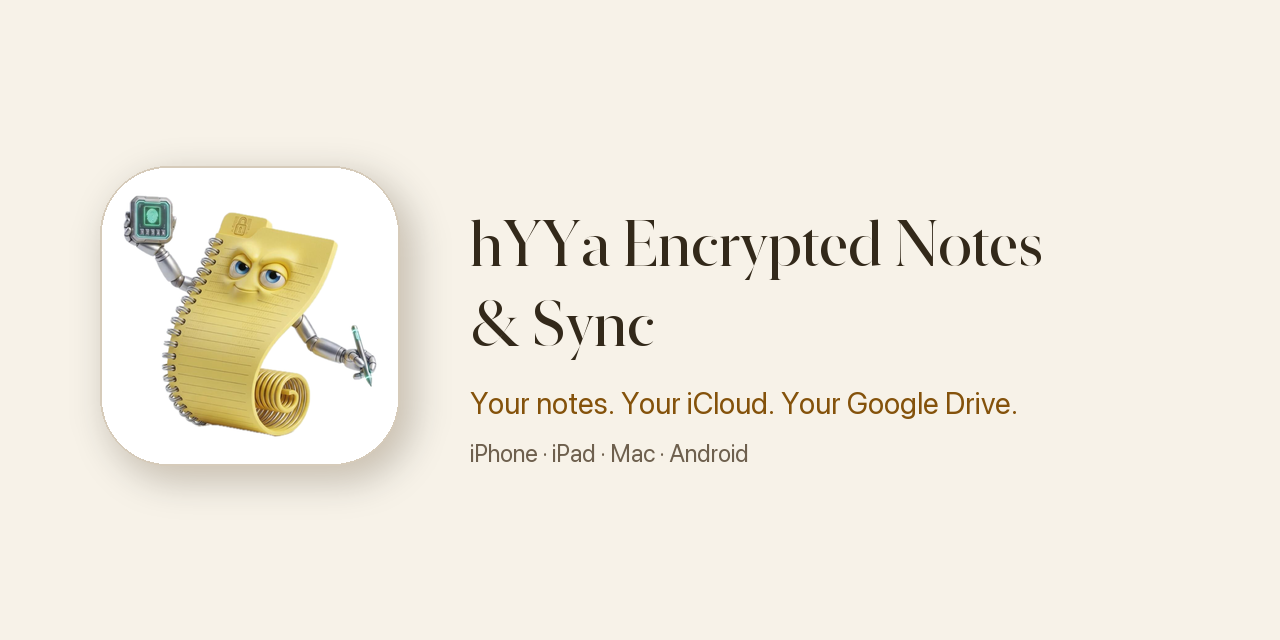
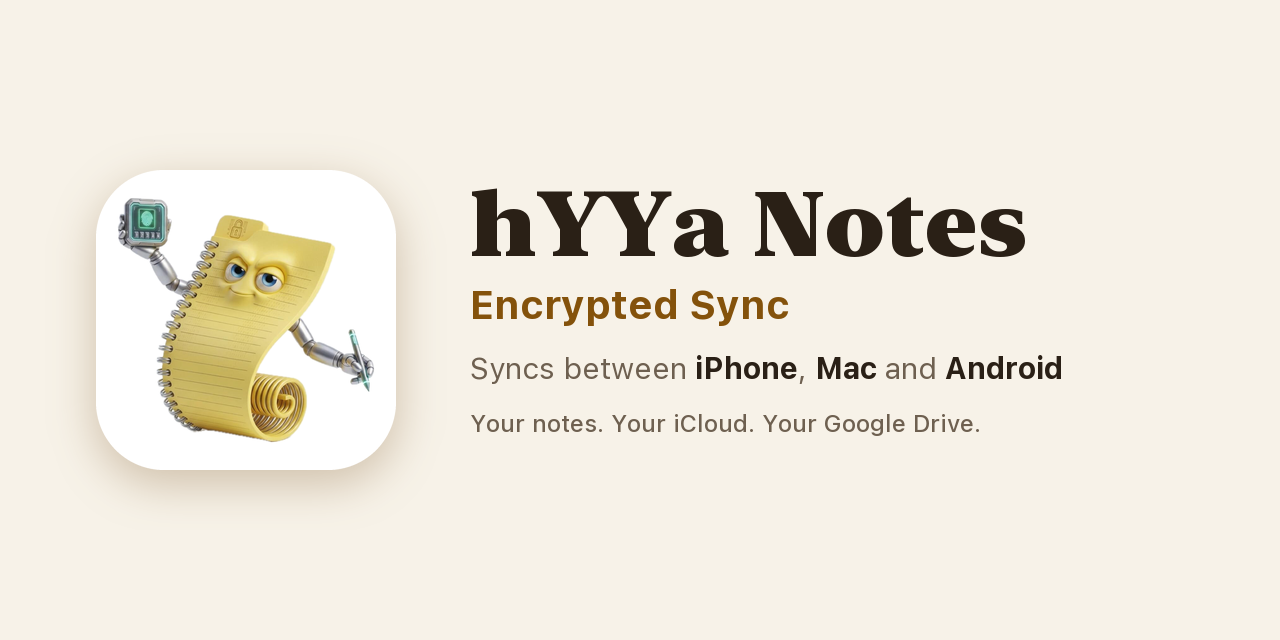
Social preview with the new name (hYYa Notes · Encrypted Sync); README: syncs between iPhone, iPad, Mac and Android

diff --git a/README.md b/README.md
@@ -2,7 +2,7 @@
 
 **Your notes. Your iCloud. Your Google Drive.**
 
-Encrypted notes that only you can read, synced through your own iCloud or Google Drive, on iPhone, iPad, Mac and Android.
+Encrypted notes that only you can read. They sync between iPhone, iPad, Mac and Android, through your own iCloud or Google Drive.
 
 **→ [Download and full details at hyya.com/hyya-encrypted-notes.html](https://hyya.com/hyya-encrypted-notes.html)**
 
